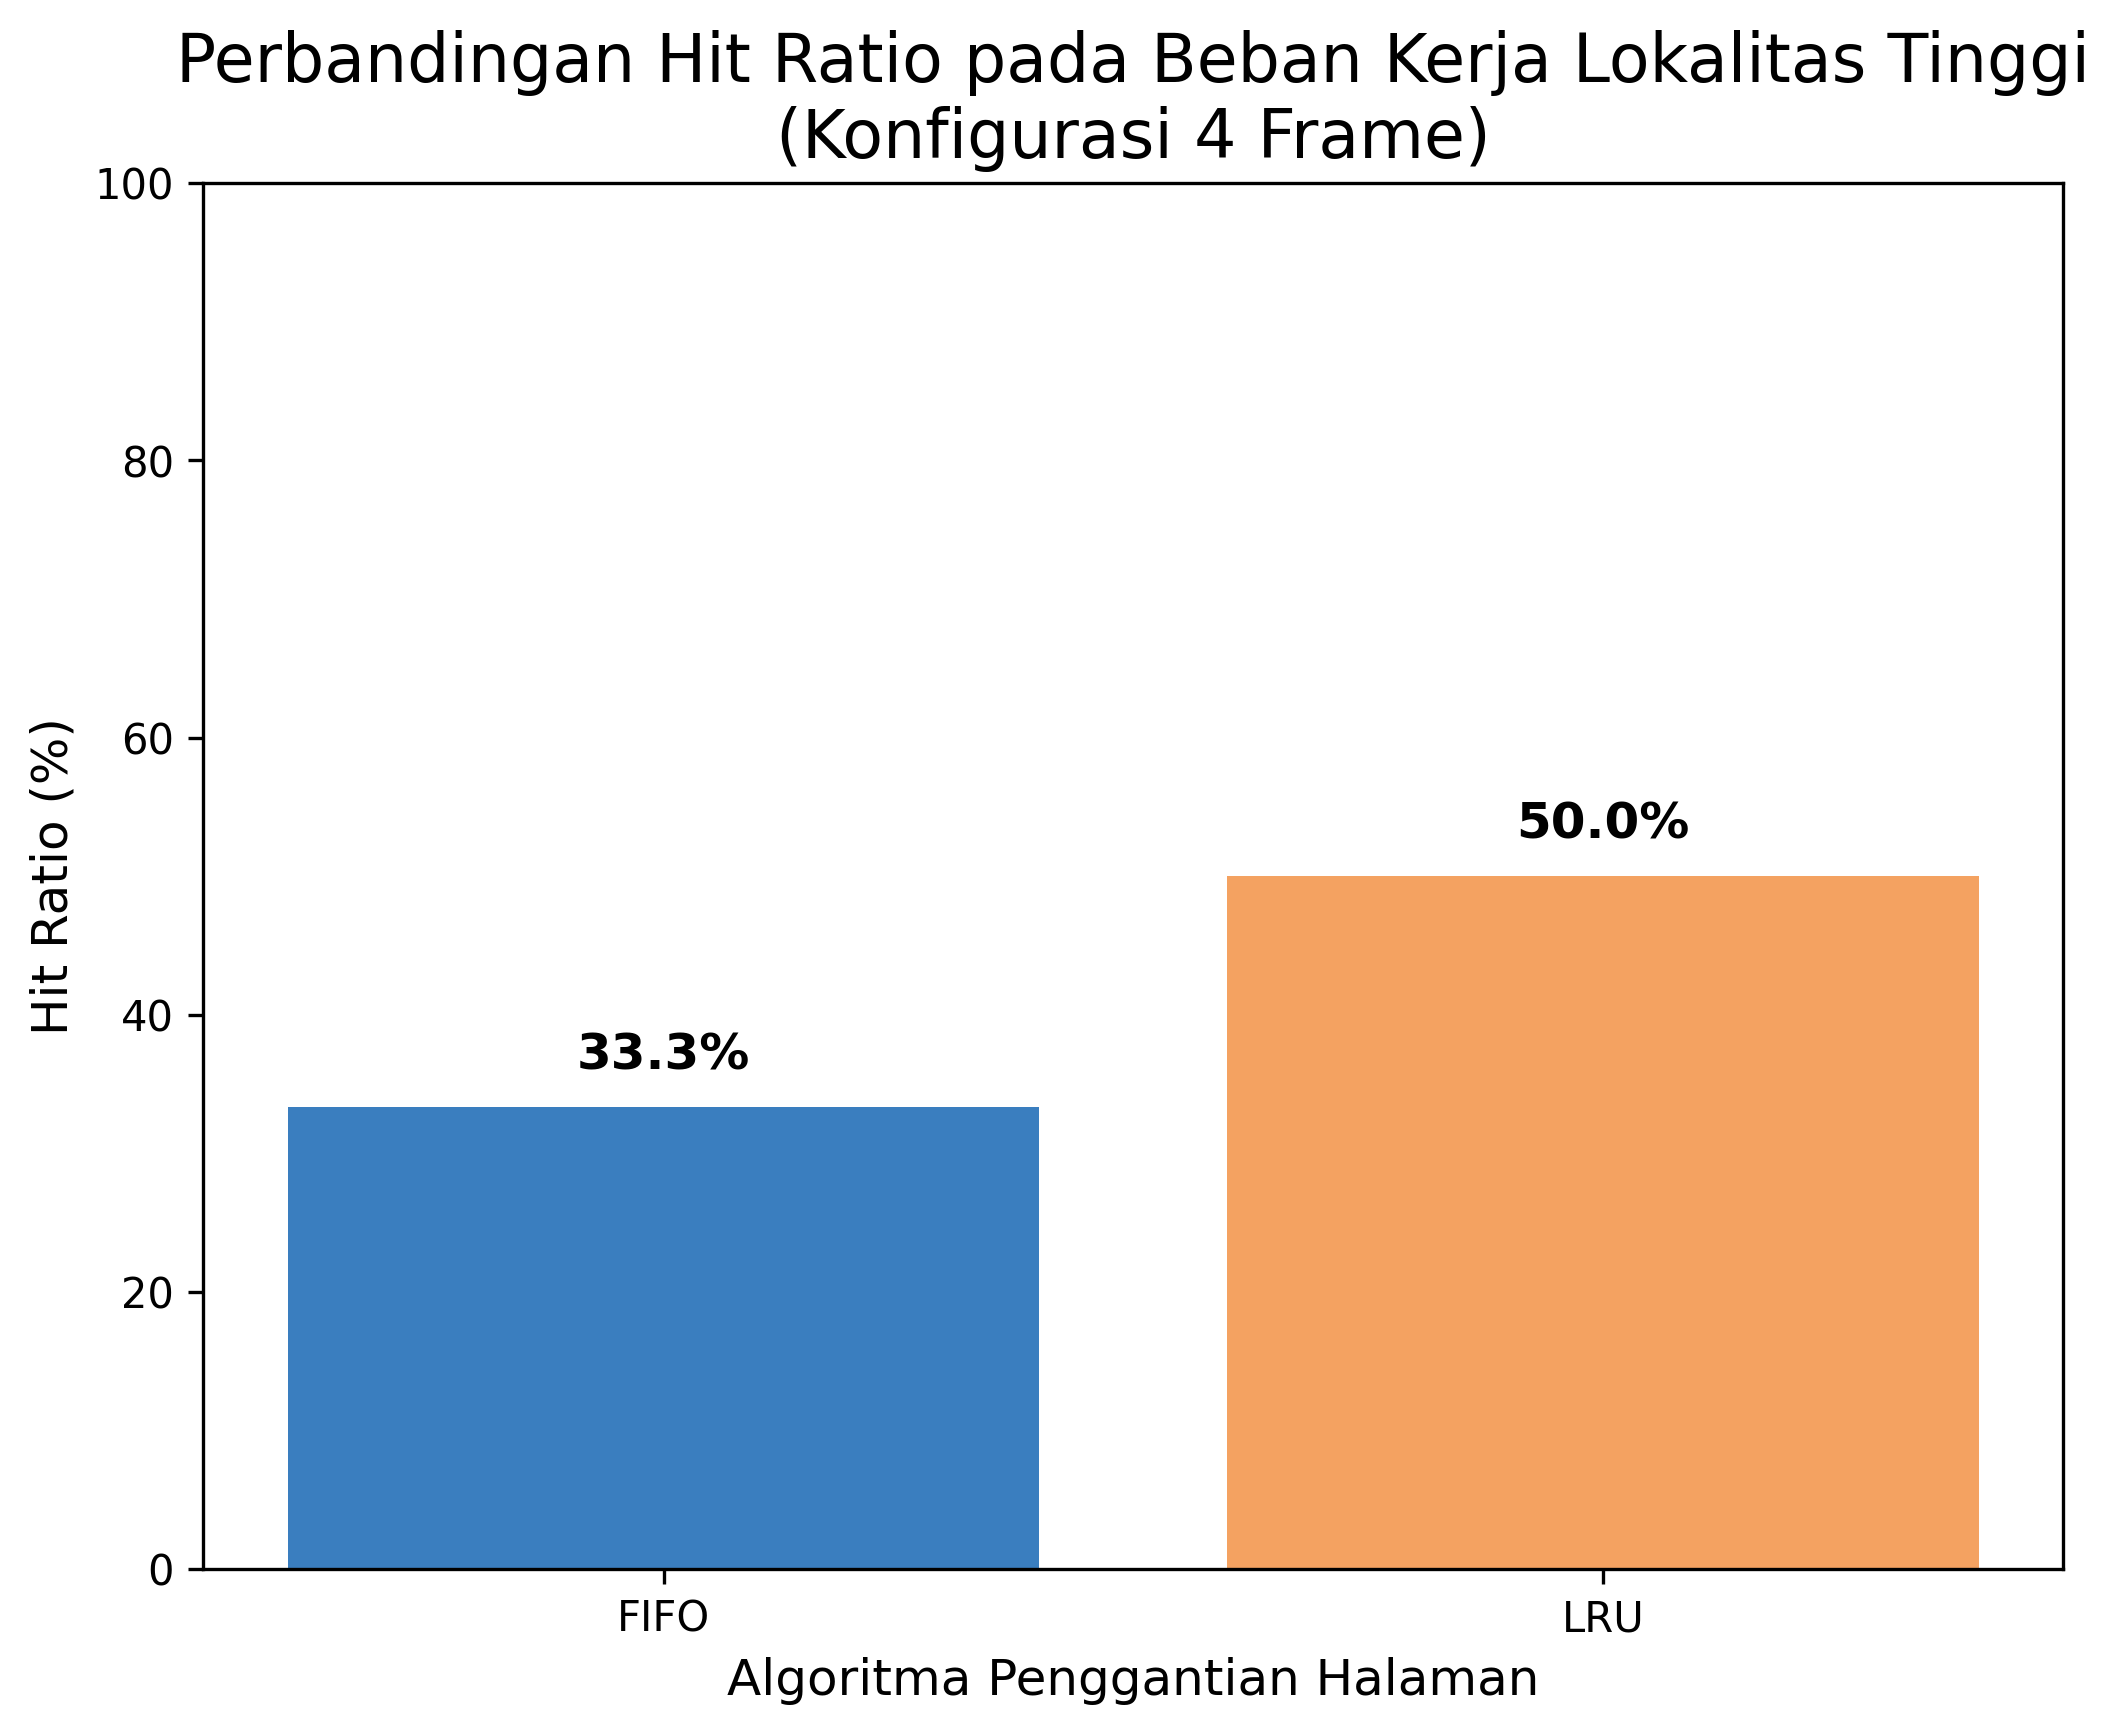
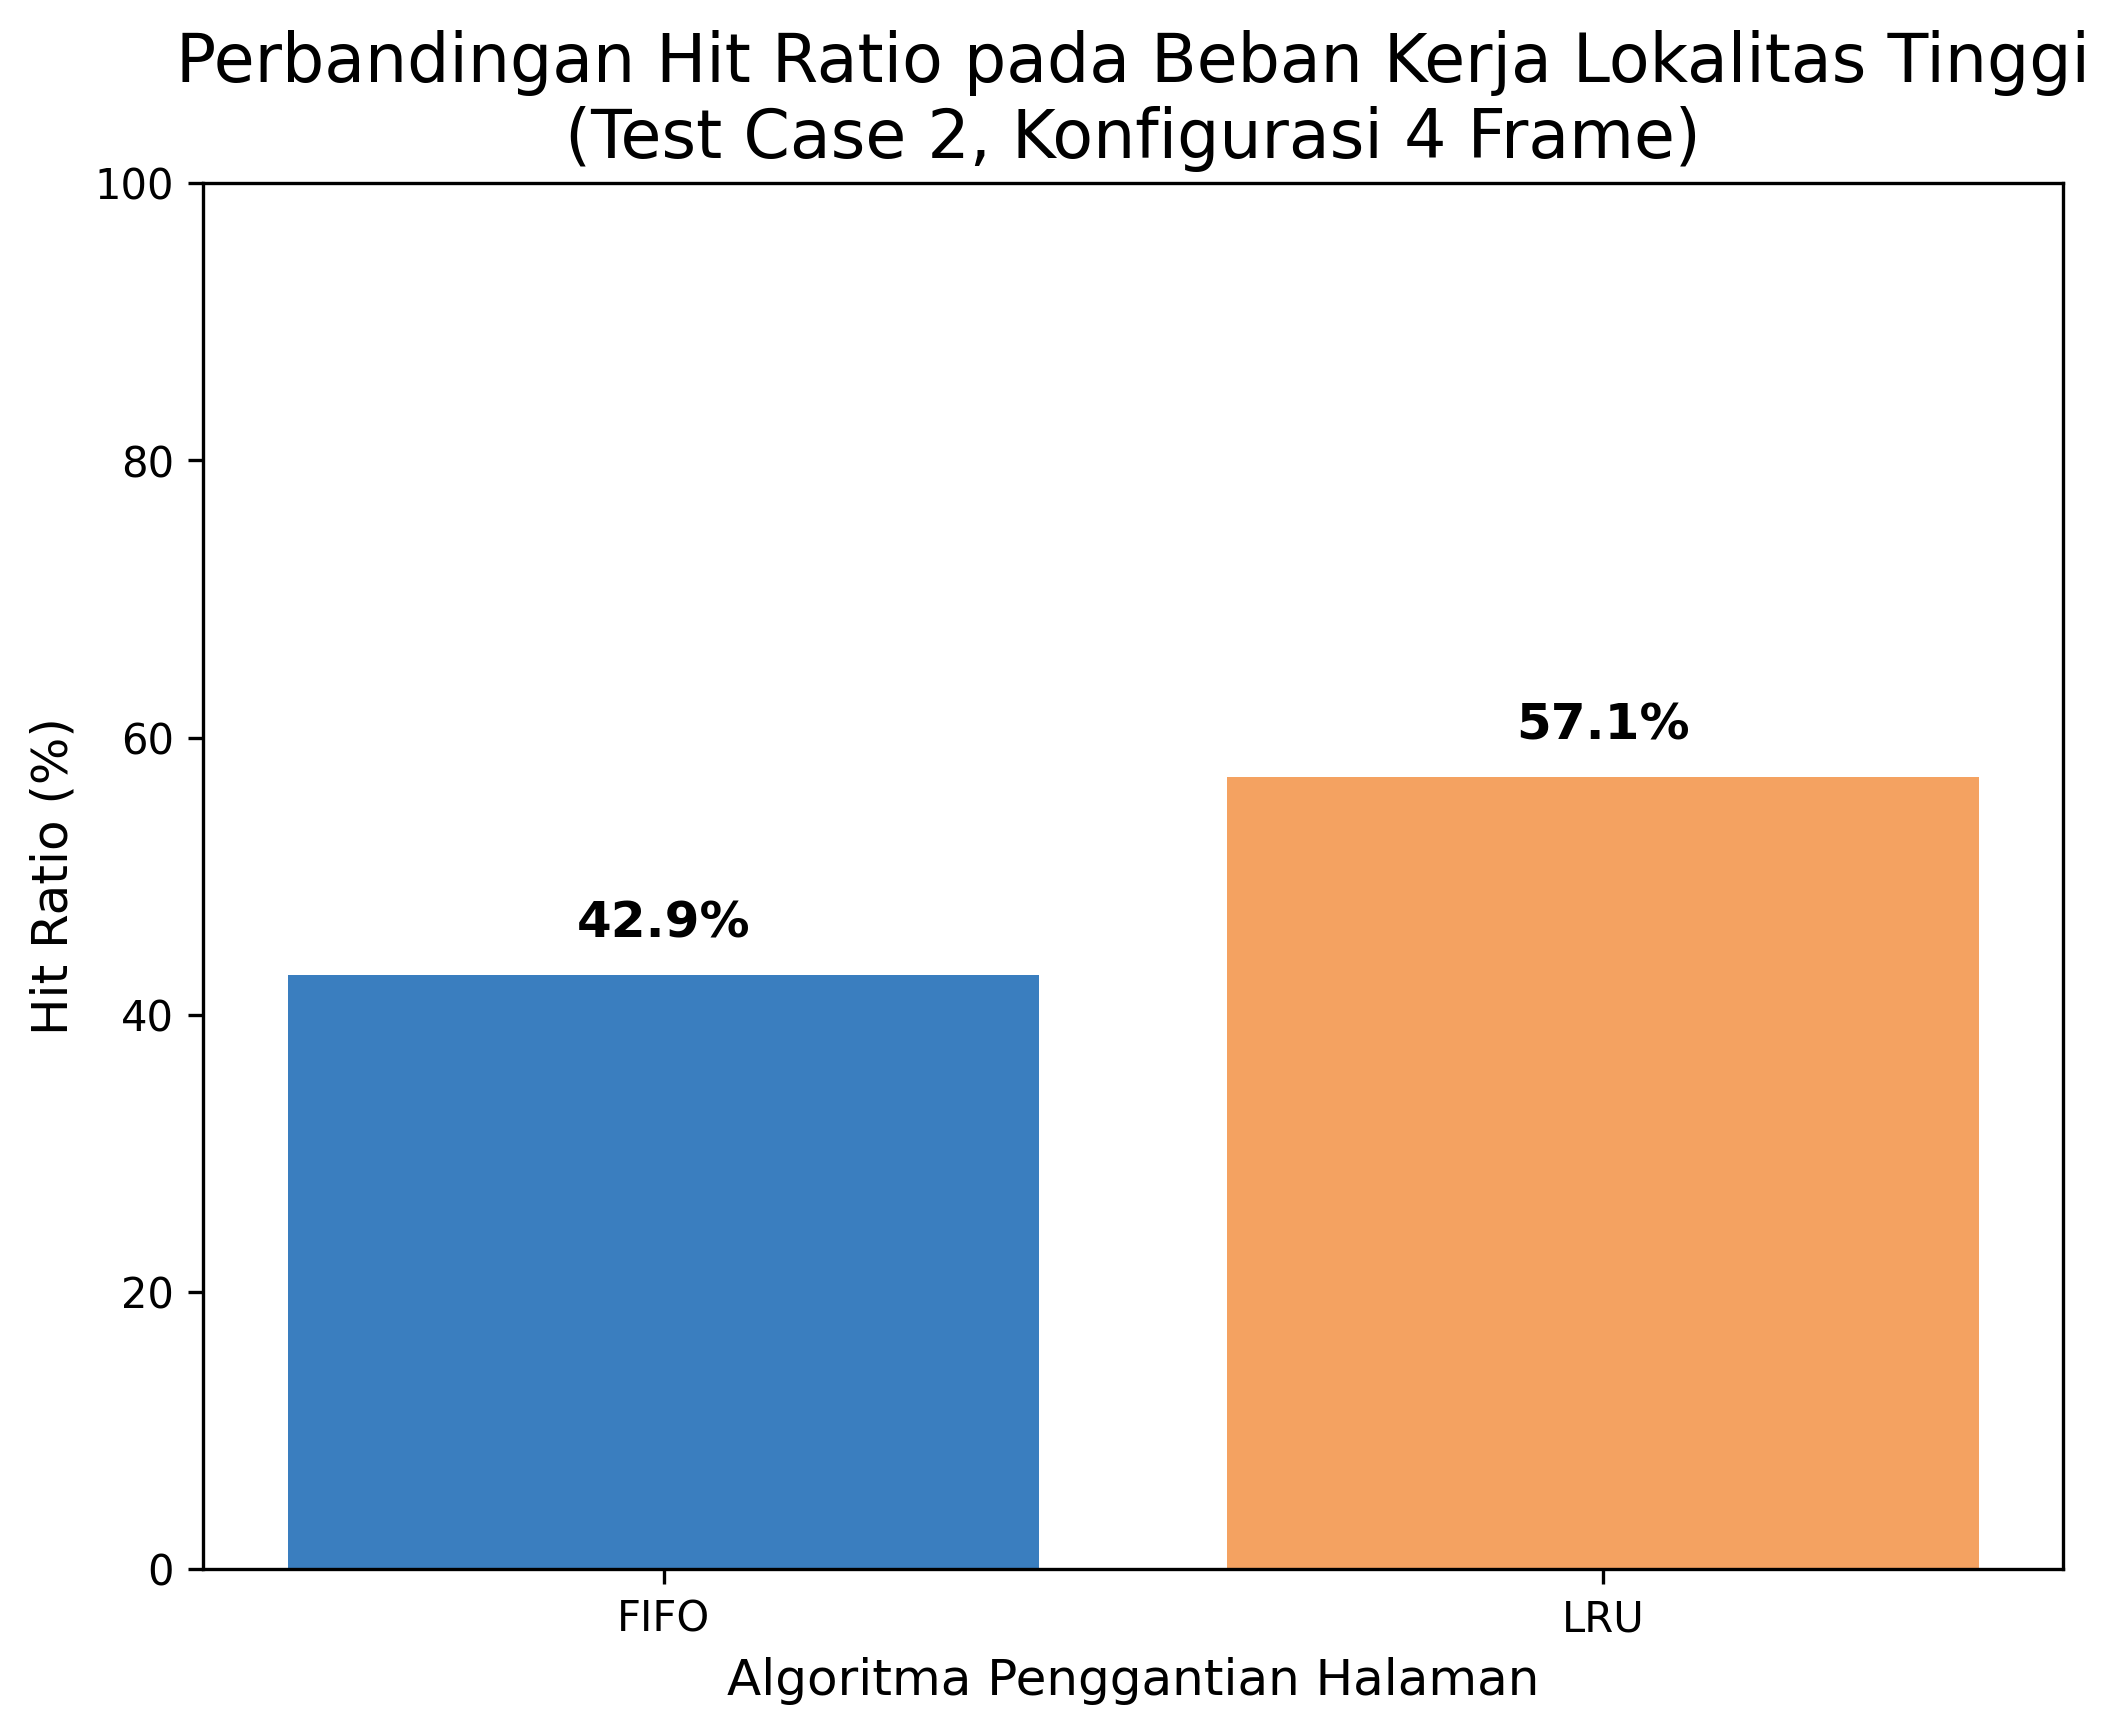
feat: update visualization script from Canvas (Test Case 2 & 5)

Changed region(s): [[0.1245, 0.498, 0.4981, 0.6536], [0.5604, 0.4046, 0.934, 0.5291], [0.2491, 0.0622, 0.8094, 0.0934]]

diff --git a/analisis_grafik.py b/analisis_grafik.py
@@ -1,14 +1,14 @@
 # analisis_grafik.py
 # Skrip ini untuk membuat visualisasi data dari hasil simulator memori virtual.
-# Data yang digunakan di sini diambil langsung dari tabel-tabel di Bab 6
-# makalah Anda ("Hasil Eksperimen dan Analisis Kinerja").
+# Data yang digunakan di sini telah disesuaikan dengan tabel-tabel di dokumen
+# "Hasil Eksperimen dan Analisis Kinerja (Final)".
 
 import matplotlib.pyplot as plt
 import numpy as np
 
 # --- GRAFIK 1: Analisis Anomali Belady & Perbandingan Kinerja ---
 # TUJUAN: Menunjukkan bagaimana jumlah page fault berubah saat jumlah frame ditambah.
-# DATA DARI: Tabel hasil untuk "Test Case 4: Anomali Belady & Pola Siklis".
+# DATA DARI: Tabel hasil untuk "Test Case 5: Anomali Belady & Pola Siklis".
 
 # Data yang dikumpulkan dari simulator Anda
 frames = [3, 4]      # Jumlah frame yang diuji
@@ -21,7 +21,7 @@ plt.plot(frames, faults_fifo, marker='o', linestyle='-', color='#E76F51', label=
 plt.plot(frames, faults_lru, marker='s', linestyle='--', color='#2A9D8F', label='LRU', linewidth=2, markersize=8)
 
 # Memberi judul dan label
-plt.title('Perbandingan Page Faults vs. Jumlah Frame\n(Test Case 4: Anomali Belady & Pola Siklis)', fontsize=16)
+plt.title('Perbandingan Page Faults vs. Jumlah Frame\n(Test Case 5: Anomali Belady & Pola Siklis)', fontsize=16)
 plt.xlabel('Jumlah Frame Fisik', fontsize=12)
 plt.ylabel('Total Page Faults', fontsize=12)
 plt.xticks(frames) # Memastikan sumbu-x hanya menampilkan frame yang diuji
@@ -35,13 +35,14 @@ print("Grafik 'grafik_anomali_belady.png' berhasil disimpan.")
 
 # --- GRAFIK 2: Perbandingan Hit Ratio pada Beban Kerja Lokalitas ---
 # TUJUAN: Menunjukkan algoritma mana yang lebih baik untuk program dengan lokalitas.
-# DATA DARI: Tabel hasil untuk "Test Case 2: Pola Lokalitas Tinggi" dengan 4 Frame.
+# DATA DARI: Tabel hasil untuk "Test Case 2: Pola Lokalitas Tinggi (Revisi)" dengan 4 Frame.
 
 # Data yang dikumpulkan dari simulator Anda
 algorithms = ['FIFO', 'LRU']
-total_akses = 12 # Total halaman dalam reference string Test Case 2
+# Total akses untuk Test Case 2 adalah 14
+total_akses = 14
 
-# Hasil page faults untuk FIFO dan LRU dari tabel
+# Hasil page faults untuk FIFO dan LRU dari tabel Test Case 2
 page_faults_locality = [8, 6]
 
 # Hitung hit ratio secara otomatis dari data faults
@@ -52,7 +53,7 @@ plt.figure(figsize=(8, 6))
 bars = plt.bar(algorithms, hit_ratio, color=['#3A7EBF', '#F4A261'])
 
 # Memberi judul dan label
-plt.title('Perbandingan Hit Ratio pada Beban Kerja Lokalitas Tinggi\n(Konfigurasi 4 Frame)', fontsize=16)
+plt.title('Perbandingan Hit Ratio pada Beban Kerja Lokalitas Tinggi\n(Test Case 2, Konfigurasi 4 Frame)', fontsize=16)
 plt.xlabel('Algoritma Penggantian Halaman', fontsize=12)
 plt.ylabel('Hit Ratio (%)', fontsize=12)
 plt.ylim(0, 100) # Mengatur batas sumbu-y dari 0 hingga 100
